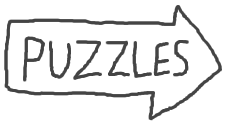
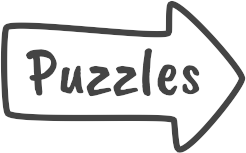
new menu

Changed region(s): [[0.0, 0.0, 1.0, 1.0], [0.0929, 0.2903, 0.8363, 0.6774]]

diff --git a/src/states/menu.js b/src/states/menu.js
@@ -11,6 +11,9 @@ export class MenuState extends Phaser.State {
 		this.buttons = game.add.group();
 		game.mode = 'puzzle';
 
+		game.camera.x = game.menuX;
+		game.camera.y = game.menuY;
+
 		for (let levelName in game.levels) {
 			game.levels[levelName].button = new LevelButton(game.levels[levelName]);
 		}
@@ -26,44 +29,48 @@ export class MenuState extends Phaser.State {
 			game.curtain.transition('main');
 		}, this))
 
-		this.buttons.add(new MenuButton(1000, 400, 'puzzles', function() {
-			this.screenPos.x = 1280;
+		this.buttons.add(new MenuButton(1100, 400, 'puzzles', function() {
+			game.menuX = 1280;
 		}, this));
 
+		game.add.image(350, 50, 'logo');
+		game.add.image(500, 550, 'credits');
+		game.add.image(470, 330, 'how-to-play');
+
 		this.buttons.add(new MenuButton(1400, 300, 'arrow', function() {
-			this.screenPos.x = 0;
+			game.menuX = 0;
 		}, this, 180));
 		this.buttons.add(new MenuButton(2400, 300, 'arrow', function() {
-			this.screenPos.x = 2560;
+			game.menuX = 2560;
 		}, this, 0));
 		this.buttons.add(new MenuButton(2400, 500, 'arrow', function() {
-			this.screenPos.y = 720;
+			game.menuY = 720;
 		}, this, 90));
 		this.buttons.add(new MenuButton(2400, 850, 'arrow', function() {
-			this.screenPos.y = 0;
+			game.menuY = 0;
 		}, this, 270));
 		
 		this.buttons.add(new MenuButton(2680, 300, 'arrow', function() {
-			this.screenPos.x = 1280;
+			game.menuX = 1280;
 		}, this, 180));
 		this.buttons.add(new MenuButton(3680, 300, 'arrow', function() {
-			this.screenPos.x = 3840;
+			game.menuX = 3840;
 		}, this, 0));
 		this.buttons.add(new MenuButton(3680, 500, 'arrow', function() {
-			this.screenPos.y = 720;
+			game.menuY = 720;
 		}, this, 90));
 		this.buttons.add(new MenuButton(3680, 850, 'arrow', function() {
-			this.screenPos.y = 0;
+			game.menuY = 0;
 		}, this, 270));
 
 		this.buttons.add(new MenuButton(3960, 300, 'arrow', function() {
-			this.screenPos.x = 2560;
+			game.menuX = 2560;
 		}, this, 180));
 		this.buttons.add(new MenuButton(4960, 500, 'arrow', function() {
-			this.screenPos.y = 720;
+			game.menuY = 720;
 		}, this, 90));
 		this.buttons.add(new MenuButton(4960, 850, 'arrow', function() {
-			this.screenPos.y = 0;
+			game.menuY = 0;
 		}, this, 270));
 		
 		game.curtain.raise();
@@ -71,8 +78,8 @@ export class MenuState extends Phaser.State {
 
 	update() {
 		let dt = game.time.elapsedMS / 1000;
-		game.camera.x += 5*(this.screenPos.x - game.camera.x)*dt;
-		game.camera.y += 5*(this.screenPos.y - game.camera.y)*dt;
+		game.camera.x += 5*(game.menuX - game.camera.x)*dt;
+		game.camera.y += 5*(game.menuY - game.camera.y)*dt;
 
 		let g = this.graphics;
 		g.clear();

diff --git a/src/states/load.js b/src/states/load.js
@@ -17,7 +17,7 @@ export class LoadState extends Phaser.State {
 
 		//game.load.bitmapFont('small', 'font/small.png', 'font/small.fnt');
 		game.load.spritesheet('level-button', 'img/level-button.png', 32, 32);
-		game.load.spritesheet('dot', 'img/dot.png', 20, 20);
+		game.load.spritesheet('dot', 'img/dot.png', 24, 24);
 		game.load.spritesheet('one', 'img/one.png', 100, 100);
 		game.load.spritesheet('two', 'img/two.png', 100, 100);
 		game.load.spritesheet('three', 'img/three.png', 100, 100);
@@ -31,7 +31,10 @@ export class LoadState extends Phaser.State {
 		game.load.image('puzzles', 'img/menu/puzzles.png');
 		game.load.image('arrow', 'img/menu/arrow.png');
 		game.load.image('transition', 'img/transition.png');
-		game.load.image('random-dungeon', 'img/random-dungeon.png');
+		game.load.image('random-dungeon', 'img/menu/random-dungeon.png');
+		game.load.image('logo', 'img/menu/logo.png');
+		game.load.image('how-to-play', 'img/menu/how-to-play.png');
+		game.load.image('credits', 'img/menu/credits.png');
 	}
 
 	create() {
@@ -55,6 +58,9 @@ export class LoadState extends Phaser.State {
 		game.stage.addChild(game.curtain);
 		game.overlay = game.make.tileSprite(0, 0, 7680, 1440, 'paper-texture');
 		game.stage.addChild(game.overlay);
+
+		game.menuX = 0;
+		game.menuY = 0;
 
 		game.state.start('menu');
 	}

diff --git a/src/objects/curtain.js b/src/objects/curtain.js
@@ -10,21 +10,21 @@ export class Curtain extends Phaser.Image {
 
     update() {
         this.y += game.time.elapsedMS*2;
-        if (this.falling && this.y >= game.camera.y) {
+        if (this.falling && this.y >= 0) {
             game.state.start(this.newState);
             this.falling = false;
         }
     }
 
     raise() {
-        this.y = game.camera.y + game.height;
+        this.y = game.height;
         this.angle = 180;
     }
 
     transition(newState) {
         this.newState = newState;
         this.falling = true;
-        this.y = game.camera.y - 1000;
+        this.y = -1000;
         this.angle = 0;
     }
 }
